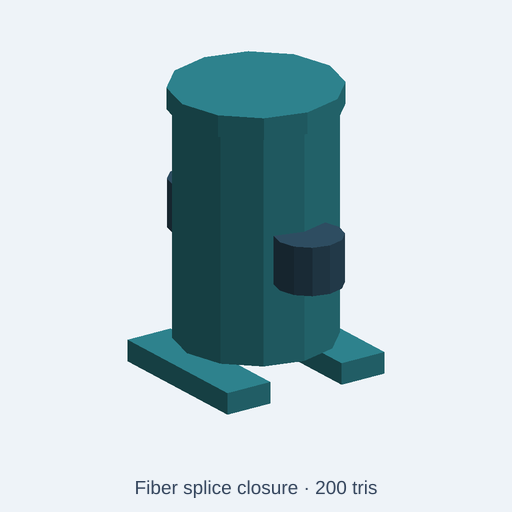
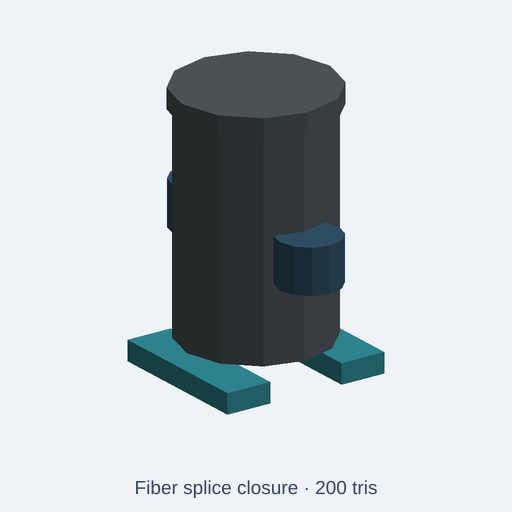
fix(catalog): render the fiber splice closure shell as moulded thermoplastic
The shell and lid of telecom-infrastructure/fiber-splice-closure used the
powderCoat control, so the moulded splice housing rendered as teal
powder-coated steel. This is the same defect fixed on fiber-dome-closure.

- New closureShell control (#4f585c, "Closure shell (moulded
  thermoplastic)") routed to shell and lid. Both presets set it.
- Mounting feet stay powderCoat (steel brackets); ports stay polymer.
- Geometry, part names and triangles (200 / 900) are unchanged.
- New GLB colour test fails on the old source and passes on the fix.
- Catalog tests: 121/121 files, 189/189 tests pass. ESLint clean.
  Quality gate 2,398/2,402, unchanged. Index diff touches only this row.

Audit ledger (telecom-infrastructure, this round):
- fiber-splice-closure: shell/lid steel, should be thermoplastic. Fixed.
  Also noted: description says "inline with tapered ends", but the model
  is a vertical cylinder (geometry, not changed).
- optical-patch-panel: 240 mm tall body; a 1U 19-inch panel is 44 mm.
  Noted (dimension).
- surge-protector-enclosure: steel box, door, pole. No defect found.
- battery-backup-cabinet: steel cabinet, doors, plinth. No defect found.
- fiber-terminal-box: steel box, door, cable glands. No defect found.

Changed region(s): [[0.3125, 0.0938, 0.6875, 0.7188]]

diff --git a/tests/integration/catalog/fiberSpliceClosureShellMaterial.test.ts b/tests/integration/catalog/fiberSpliceClosureShellMaterial.test.ts
@@ -1,0 +1,65 @@
+// SPDX-License-Identifier: MIT
+// Copyright (c) 2026 Andrii Shylenko and kernelCAD contributors
+
+import { resolve } from 'node:path';
+import { NodeIO } from '@gltf-transform/core';
+import { beforeAll, describe, expect, it } from 'vitest';
+import { buildCatalogAssetWithGlb } from '../../../src/agent/catalog/buildCatalog';
+import { initOcct } from '../../../src/kernel/backends/occt/occtBackend';
+
+const repoRoot = resolve(import.meta.dirname, '../../..');
+const source = 'catalog/kits/telecom-infrastructure/fiber-splice-closure.kcad.ts';
+
+beforeAll(async () => {
+  await initOcct();
+}, 120_000);
+
+describe('telecom-infrastructure/fiber-splice-closure materials', () => {
+  it('renders the closure shell and lid as moulded thermoplastic, not powder-coated steel', async () => {
+    const { asset, glb } = await buildCatalogAssetWithGlb(repoRoot, source);
+
+    expect(asset.stats.triangles).toBeLessThanOrEqual(asset.triangleBudget);
+    expect(asset.params.filter((param) => param.type === 'color').map((param) => param.name)).toEqual([
+      'closureShell', 'polymer', 'powderCoat',
+    ]);
+    expect(Object.keys(asset.presets)).toEqual(['fieldSite', 'highVisibility']);
+
+    const document = await new NodeIO().readBinary(glb);
+    const nodes = document.getRoot().listNodes();
+    const colorsFor = (name: string) => {
+      const node = nodes.find((candidate) => candidate.getName() === name);
+      return node?.getMesh()?.listPrimitives().flatMap((primitive) => {
+        const vertexColors = primitive.getAttribute('COLOR_0');
+        if (vertexColors !== null) {
+          return Array.from({ length: vertexColors.getCount() }, (_, index) => {
+            const color = vertexColors.getElement(index, []);
+            return color.slice(0, 3).map((channel) =>
+              channel <= 0.0031308 ? 12.92 * channel : 1.055 * channel ** (1 / 2.4) - 0.055,
+            );
+          });
+        }
+        const material = primitive.getMaterial();
+        return material === null ? [] : [material.getBaseColorFactor().slice(0, 3)];
+      }) ?? [];
+    };
+    const matches = (hex: string) => {
+      const expected = [1, 3, 5].map((shift) => parseInt(hex.slice(shift, shift + 2), 16) / 255);
+      return (color: number[]) => expected.every((channel, index) =>
+        Math.abs(channel - color[index]!) < 0.015,
+      );
+    };
+
+    for (const name of ['shell', 'lid']) {
+      const colors = colorsFor(name);
+      expect(colors.length, name).toBeGreaterThan(0);
+      expect(colors.every(matches('#4f585c')), `${name} should be thermoplastic closure shell`).toBe(true);
+      expect(colors.some(matches('#318b96')), `${name} must not be powder-coated steel`).toBe(false);
+    }
+    const port = colorsFor('port-left');
+    expect(port.length).toBeGreaterThan(0);
+    expect(port.every(matches('#315267')), 'cable port should stay engineering polymer').toBe(true);
+    const foot = colorsFor('mount-foot-left');
+    expect(foot.length).toBeGreaterThan(0);
+    expect(foot.every(matches('#318b96')), 'mounting foot should stay powder-coated steel').toBe(true);
+  }, 120_000);
+});

diff --git a/catalog/kits/telecom-infrastructure/fiber-splice-closure.kcad.ts b/catalog/kits/telecom-infrastructure/fiber-splice-closure.kcad.ts
@@ -1,11 +1,13 @@
 // SPDX-License-Identifier: CC0-1.0
-// Fiber splice closure: Inline fiber splice closure with tapered ends, raised center lid and two cable ports with clearly separated telecom materials and visible component cues.
+// Fiber splice closure: Inline fiber splice closure with tapered ends, raised center lid and two cable ports.
+// The shell and its lid are one moulded thermoplastic housing; the cable ports take the
+// darker engineering polymer and only the mounting feet are powder-coated steel brackets.
 
 meta({
   name: "fiber-splice-closure",
   license: 'CC0-1.0',
   title: "Fiber splice closure",
-  description: "Inline fiber splice closure with tapered ends, raised center lid and two cable ports. Knobs: overall scale; engineering polymer and cable jacket, powder-coated steel.",
+  description: "Inline fiber splice closure with tapered ends, raised center lid and two cable ports. Knobs: overall scale; moulded thermoplastic closure shell, engineering polymer and cable jacket, powder-coated steel mounting feet.",
   tags: ['telecom', 'network', 'communications', 'infrastructure', 'low poly'],
   kit: 'telecom-infrastructure',
   category: 'prop',
@@ -16,14 +18,17 @@ meta({
 
 const scale = param('scale', 1, { min: 0.7, max: 1.3, step: 0.05, label: 'Overall scale' });
 
+const closureShell = param('closureShell', '#4f585c', { label: 'Closure shell (moulded thermoplastic)' });
 const polymer = param('polymer', '#315267', { label: 'Engineering polymer and cable jacket' });
 const powderCoat = param('powderCoat', '#318b96', { label: 'Powder-coated steel' });
 presets({
   fieldSite: {
+    closureShell: '#3a4245',
     polymer: '#263a37',
     powderCoat: '#52756b',
   },
   highVisibility: {
+    closureShell: '#e0aa18',
     polymer: '#27363c',
     powderCoat: '#e0aa18',
   },
@@ -33,8 +38,8 @@ const b = (x: number, y: number, z: number, w: number, d: number, h: number) => 
 const c = (x: number, y: number, z: number, h: number, r: number, n = 8) => cylinder(h, r, n).translate(x, y, z).scale(scale);
 
 const p = assembly("fiber-splice-closure");
-p.part("shell", c(0, 0, 60, 460, 145, 8).color(powderCoat));
-p.part("lid", c(0, 0, 485, 40, 155, 8).color(powderCoat));
+p.part("shell", c(0, 0, 60, 460, 145, 8).color(closureShell));
+p.part("lid", c(0, 0, 485, 40, 155, 8).color(closureShell));
 p.part("port-left", c(0, -160, 210, 90, 62, 8).color(polymer));
 p.part("port-right", c(0, 160, 210, 90, 62, 8).color(polymer));
 p.part("mount-foot-left", b(-120, 0, 0, 90, 300, 40).color(powderCoat));
